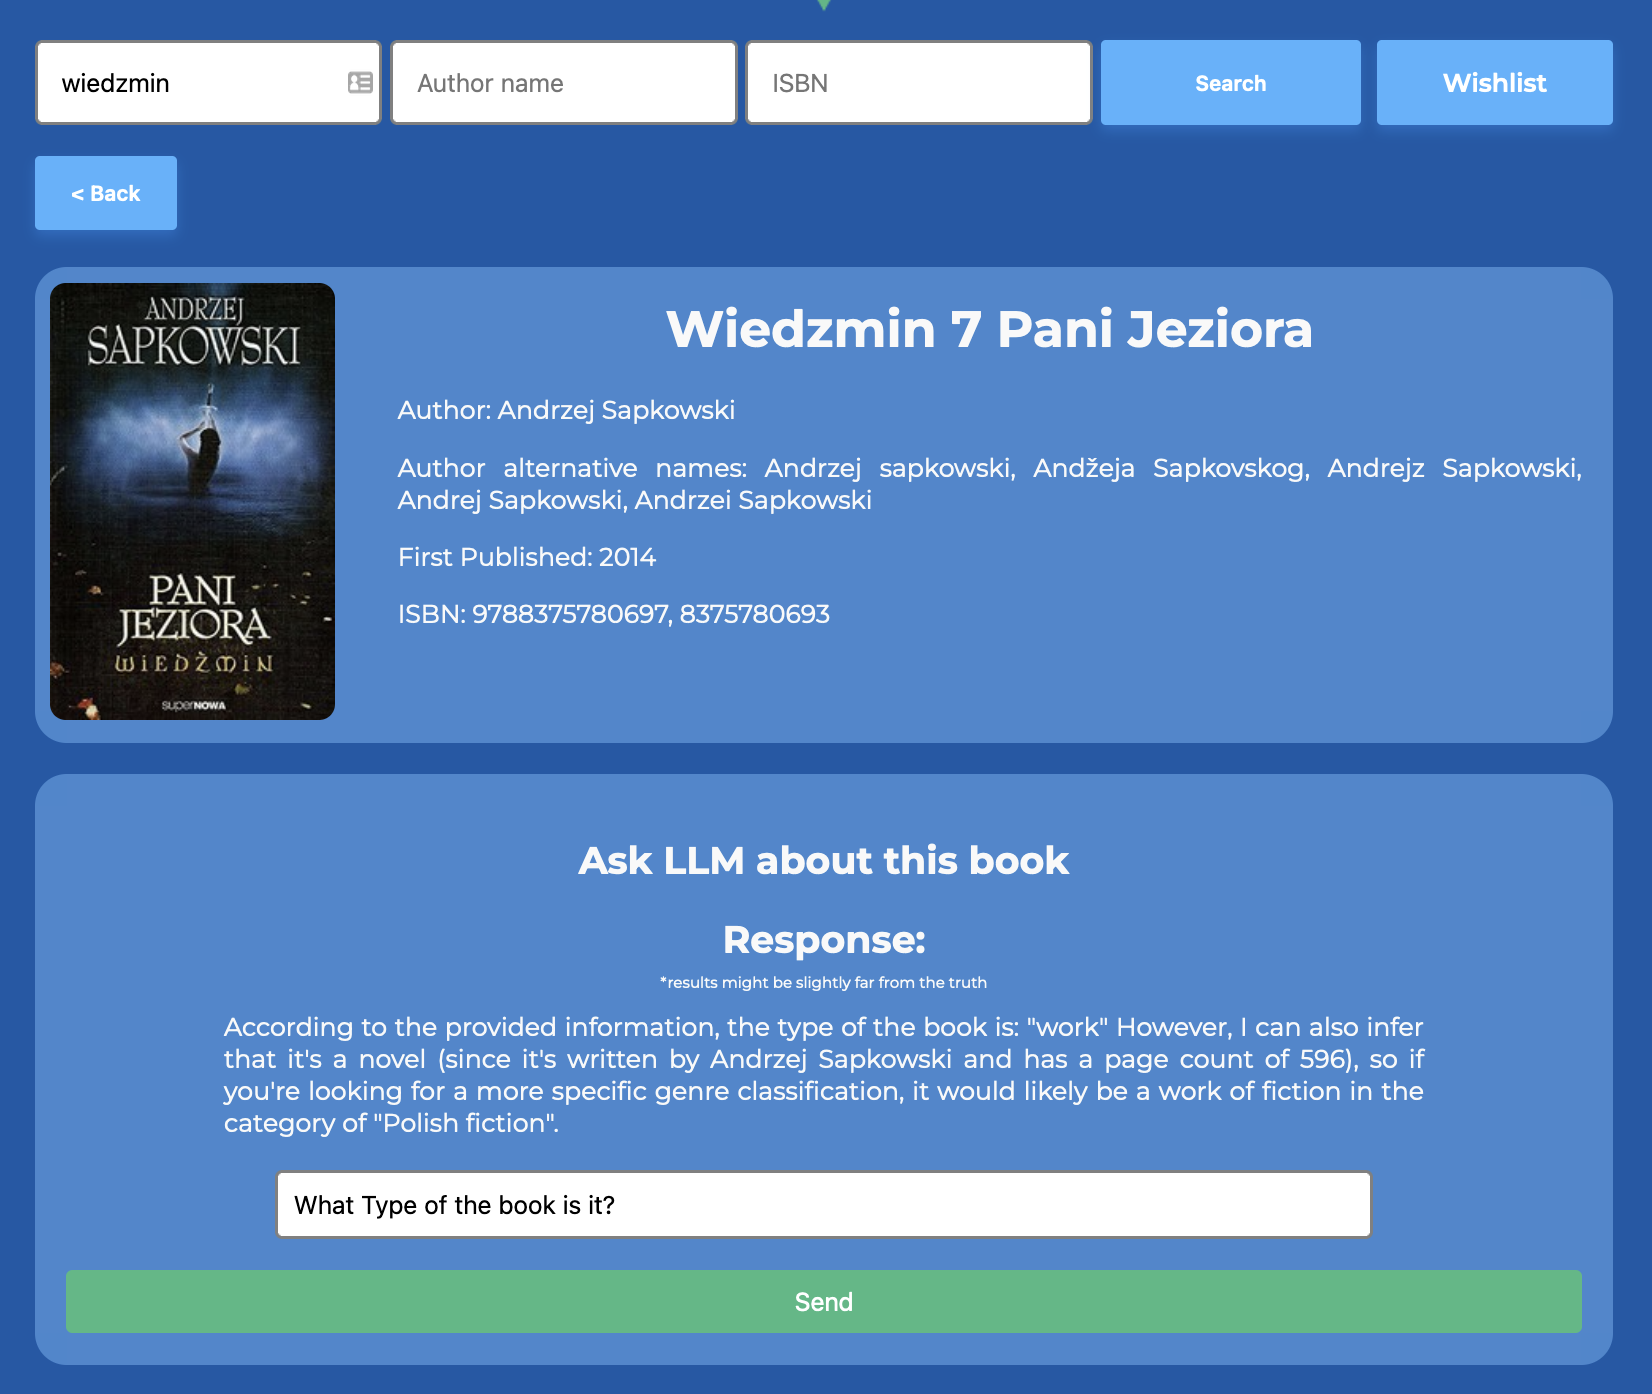
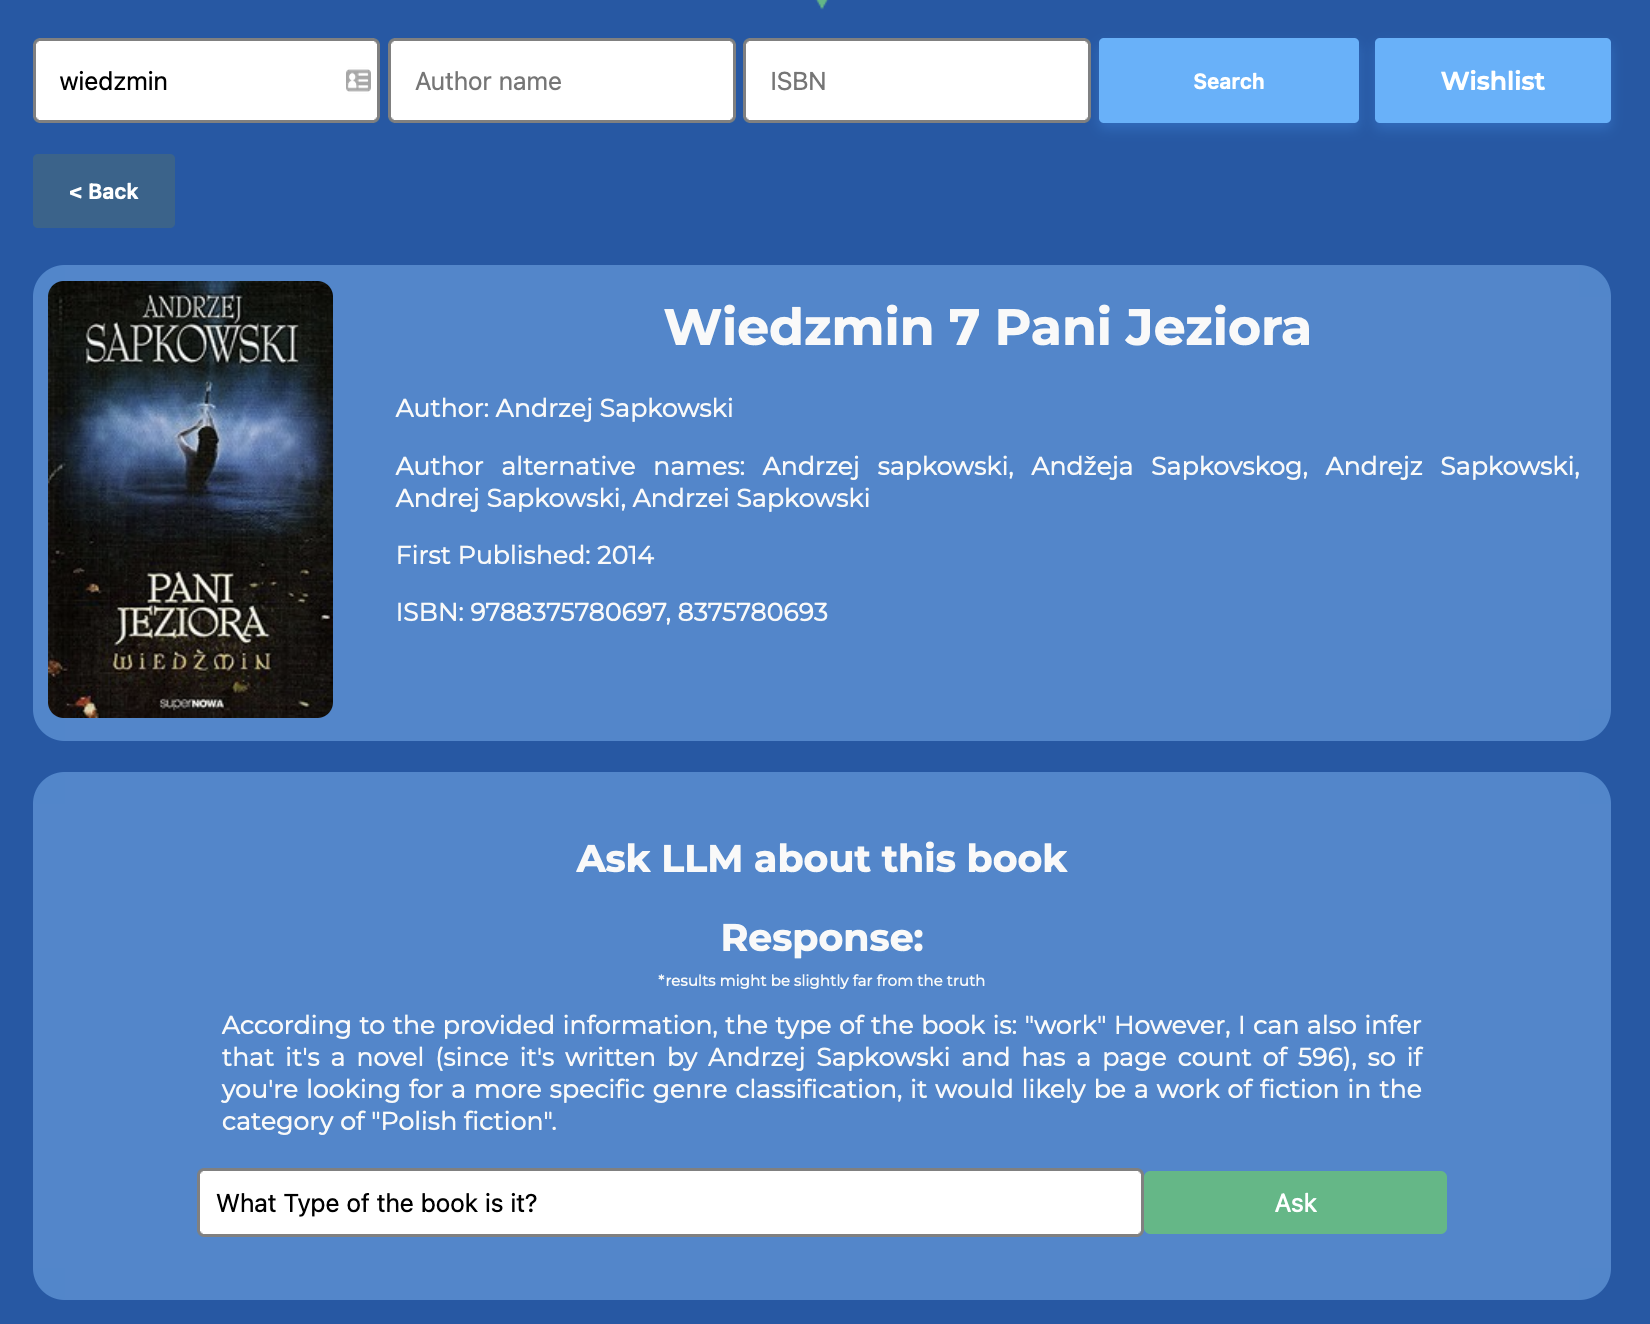
fix: css, replace preview

diff --git a/src/components/Chat.vue b/src/components/Chat.vue
@@ -7,11 +7,9 @@
       <div class="response">{{ response }}</div>
     </div>
     <form @submit.prevent="sendPrompt">
-      <div>
-        <input type="text" id="prompt" :class="{ invalid: !isPromptValid }" v-model="prompt"
-          placeholder="Enter your question" />
-      </div>
-      <button type="submit" v-if="!isLoading">Send</button>
+      <input type="text" id="prompt" :class="{ invalid: !isPromptValid }" v-model="prompt"
+        placeholder="Enter your question" />
+      <button type="submit" v-if="!isLoading">Ask</button>
       <span v-else class="cloud-loader"></span>
     </form>
   </div>
@@ -94,18 +92,18 @@ export default class Chat extends Vue {
 }
 
 .chat form {
-  display: flex;
   flex-direction: column;
 }
 
 .chat form input {
-  width: 70%;
+  width: 60%;
   margin-bottom: 20px;
   padding: 10px;
   font-size: 16px;
 }
 
 .chat form button {
+  width: 20%;
   padding: 10px;
   font-size: 16px;
   background-color: #42b983;
@@ -160,6 +158,12 @@ export default class Chat extends Vue {
   90%,
   100% {
     height: 0px;
+  }
+}
+
+@media only screen and (max-width: 768px) {
+  .chat form button, .chat form input {
+    width: 80%;
   }
 }
 </style>
